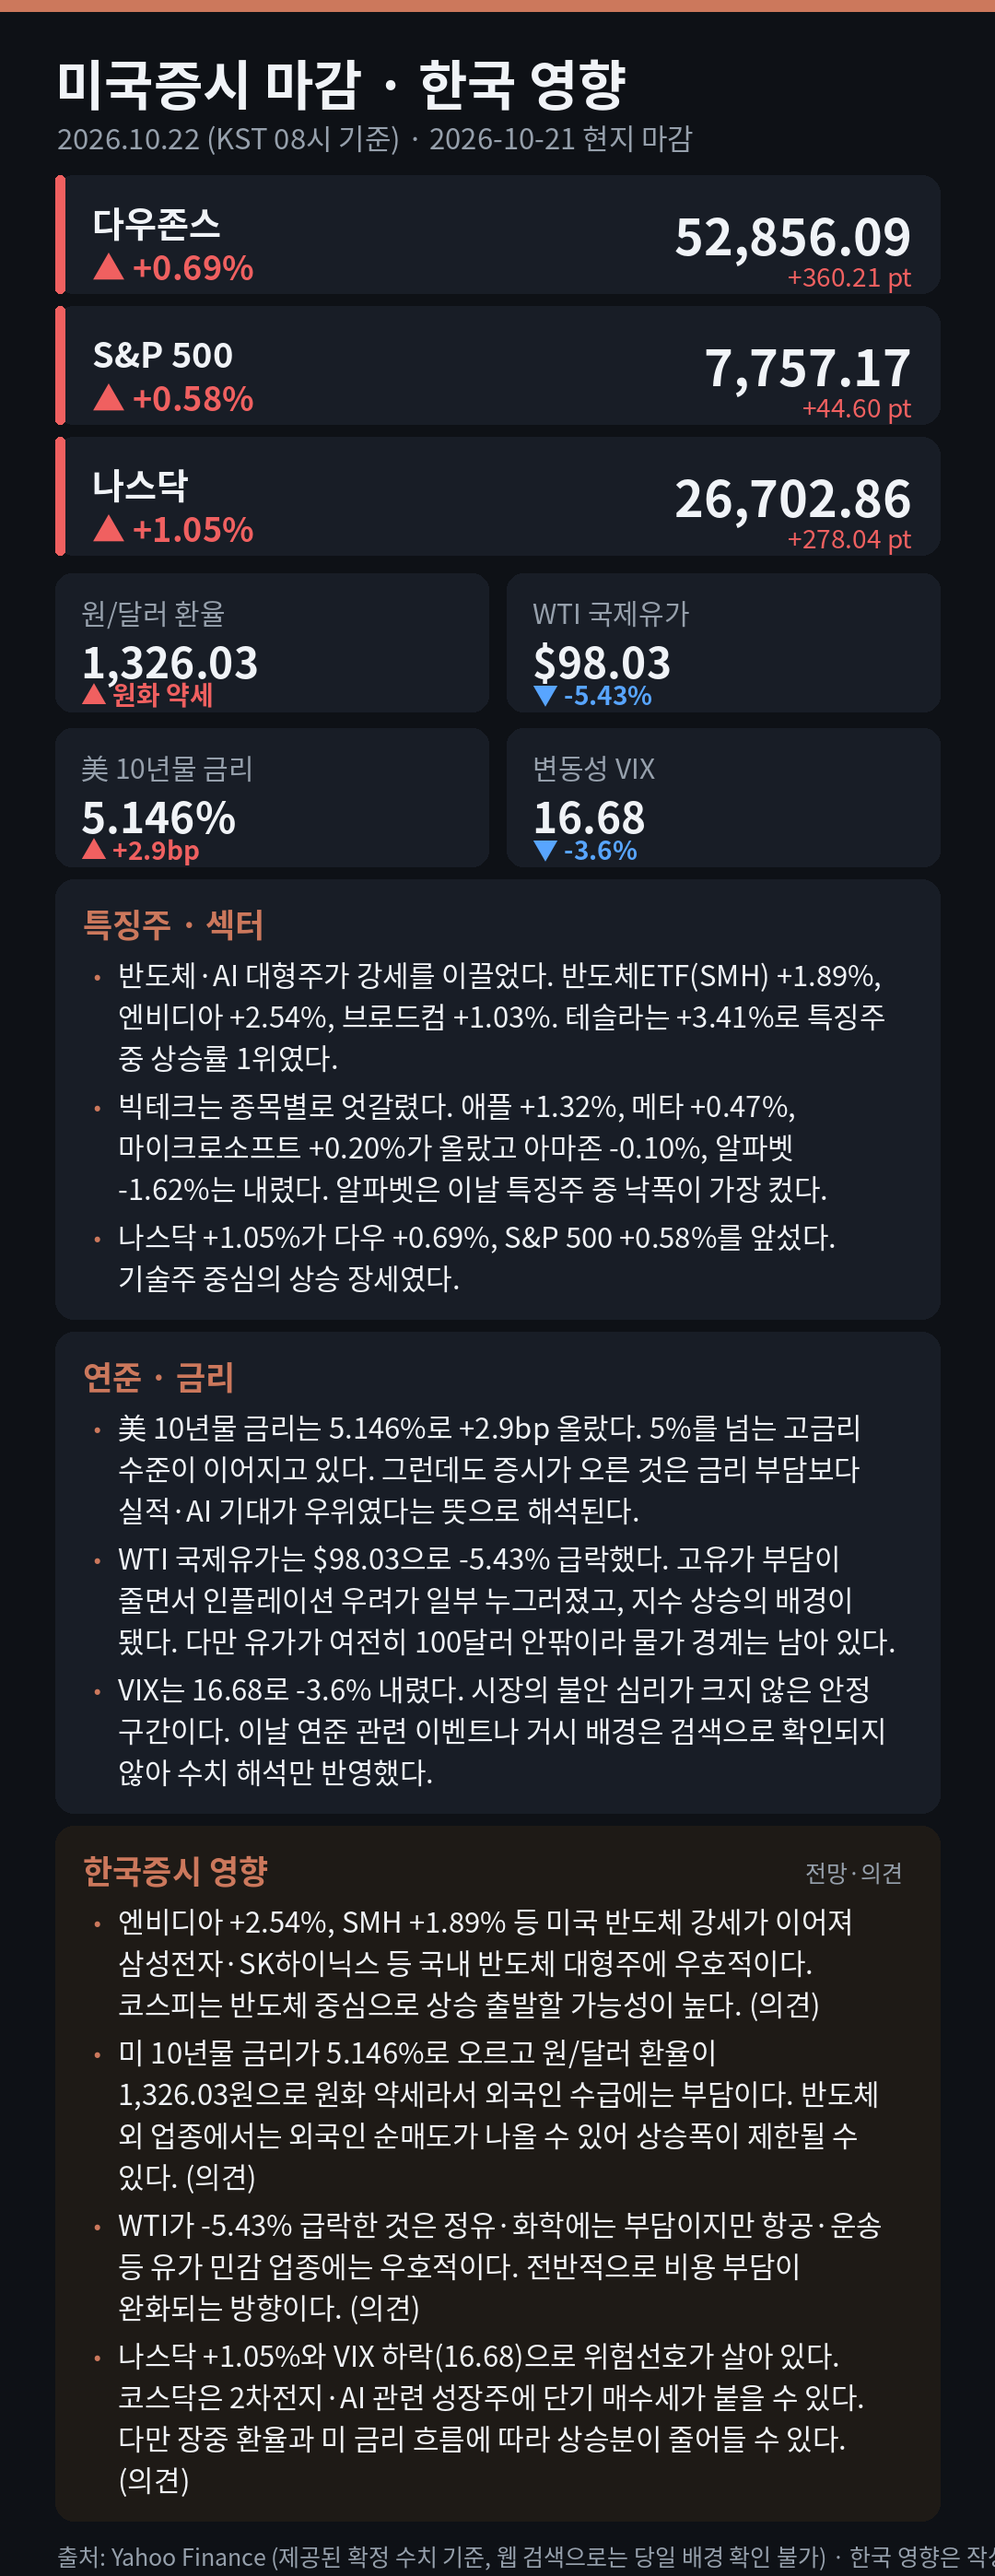
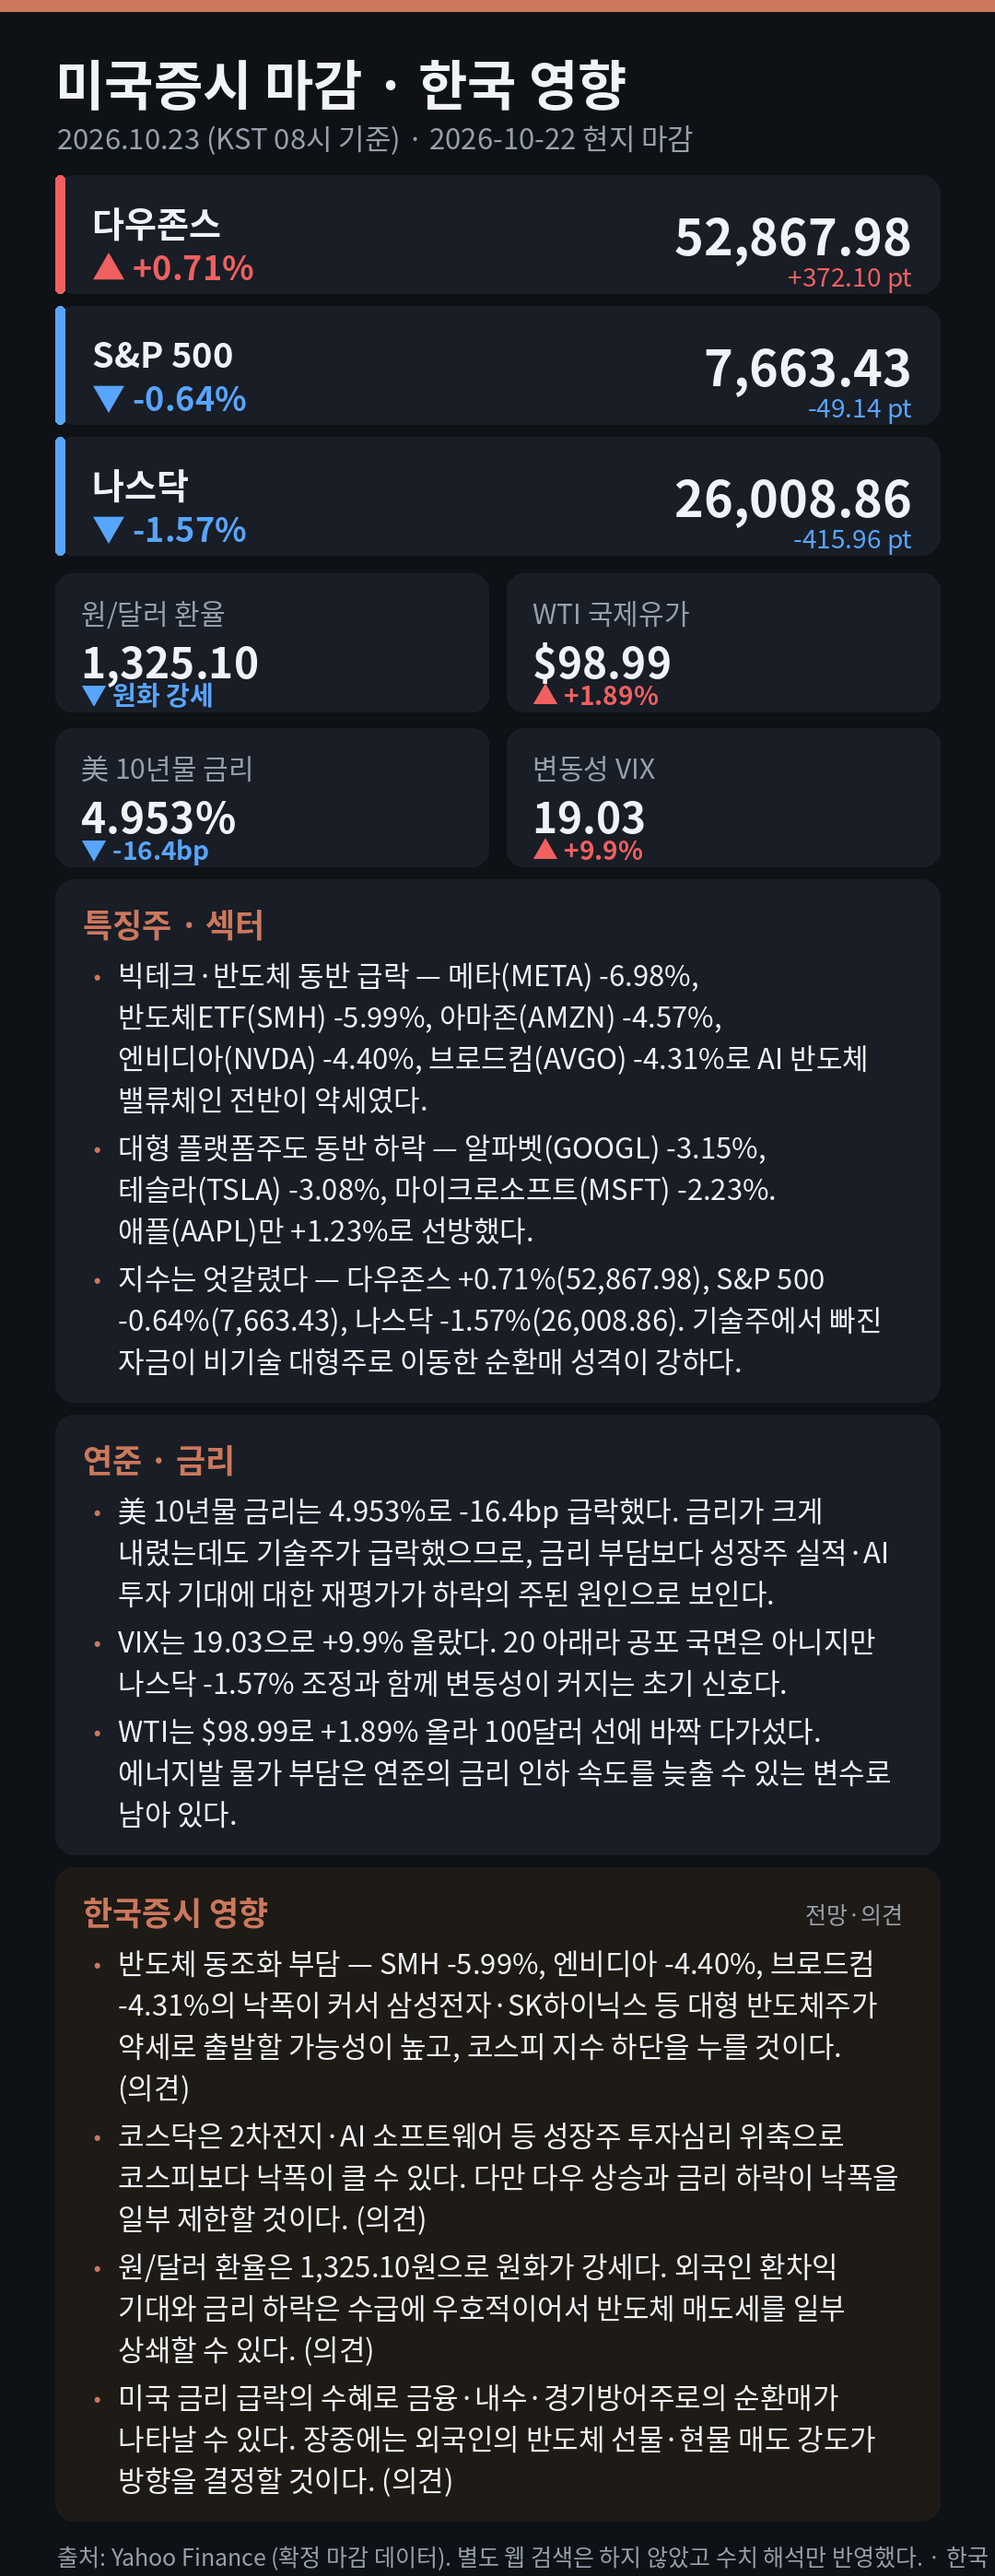
브리핑 2026-10-22 자동 발행

diff --git a/index.html b/index.html
@@ -14,8 +14,8 @@ a{color:#58a5ff;text-decoration:none} .s{color:#8a93a0;font-size:12px;float:righ
 </style></head><body><div class="wrap">
 <h1>미국증시 마감 브리핑</h1>
 <p class="sub">매일 아침(KST 08:02) 자동 업데이트 · 숫자는 Yahoo Finance 기준, 한국 영향은 전망</p>
-<img class="card" src="img/2026-10-21.png?v=2026-10-21" alt="2026-10-21 미국증시 마감"><p class="d">2026-10-21 현지 마감</p>
+<img class="card" src="img/2026-10-22.png?v=2026-10-22" alt="2026-10-22 미국증시 마감"><p class="d">2026-10-22 현지 마감</p>
 <h2>지난 브리핑</h2>
-<ul><li><a href="img/2026-10-21.png">2026-10-21</a> <span class="s">다우존스 +0.69% · S&P 500 +0.58% · 나스닥 +1.05%</span></li><li><a href="img/2026-10-20.png">2026-10-20</a> <span class="s">다우존스 +1.02% · S&P 500 +0.28% · 나스닥 -0.02%</span></li><li><a href="img/2026-10-19.png">2026-10-19</a> <span class="s">다우존스 -0.07% · S&P 500 +0.41% · 나스닥 +1.11%</span></li><li><a href="img/2026-10-16.png">2026-10-16</a> <span class="s">다우존스 -0.34% · S&P 500 -1.09% · 나스닥 -2.15%</span></li><li><a href="img/2026-10-15.png">2026-10-15</a> <span class="s">다우존스 +1.08% · S&P 500 +0.33% · 나스닥 +0.08%</span></li><li><a href="img/2026-10-14.png">2026-10-14</a> <span class="s">다우존스 -0.09% · S&P 500 -1.11% · 나스닥 -1.88%</span></li><li><a href="img/2026-10-13.png">2026-10-13</a> <span class="s">다우존스 -0.35% · S&P 500 -0.02% · 나스닥 -0.15%</span></li><li><a href="img/2026-10-12.png">2026-10-12</a> <span class="s">다우존스 +0.38% · S&P 500 -0.06% · 나스닥 -0.44%</span></li><li><a href="img/2026-10-09.png">2026-10-09</a> <span class="s">다우존스 +0.83% · S&P 500 +0.59% · 나스닥 +0.64%</span></li><li><a href="img/2026-10-08.png">2026-10-08</a> <span class="s">다우존스 +0.10% · S&P 500 -0.47% · 나스닥 -1.25%</span></li><li><a href="img/2026-10-07.png">2026-10-07</a> <span class="s">다우존스 -0.66% · S&P 500 -0.22% · 나스닥 -0.22%</span></li></ul>
+<ul><li><a href="img/2026-10-22.png">2026-10-22</a> <span class="s">다우존스 +0.71% · S&P 500 -0.64% · 나스닥 -1.57%</span></li><li><a href="img/2026-10-21.png">2026-10-21</a> <span class="s">다우존스 +0.69% · S&P 500 +0.58% · 나스닥 +1.05%</span></li><li><a href="img/2026-10-20.png">2026-10-20</a> <span class="s">다우존스 +1.02% · S&P 500 +0.28% · 나스닥 -0.02%</span></li><li><a href="img/2026-10-19.png">2026-10-19</a> <span class="s">다우존스 -0.07% · S&P 500 +0.41% · 나스닥 +1.11%</span></li><li><a href="img/2026-10-16.png">2026-10-16</a> <span class="s">다우존스 -0.34% · S&P 500 -1.09% · 나스닥 -2.15%</span></li><li><a href="img/2026-10-15.png">2026-10-15</a> <span class="s">다우존스 +1.08% · S&P 500 +0.33% · 나스닥 +0.08%</span></li><li><a href="img/2026-10-14.png">2026-10-14</a> <span class="s">다우존스 -0.09% · S&P 500 -1.11% · 나스닥 -1.88%</span></li><li><a href="img/2026-10-13.png">2026-10-13</a> <span class="s">다우존스 -0.35% · S&P 500 -0.02% · 나스닥 -0.15%</span></li><li><a href="img/2026-10-12.png">2026-10-12</a> <span class="s">다우존스 +0.38% · S&P 500 -0.06% · 나스닥 -0.44%</span></li><li><a href="img/2026-10-09.png">2026-10-09</a> <span class="s">다우존스 +0.83% · S&P 500 +0.59% · 나스닥 +0.64%</span></li><li><a href="img/2026-10-08.png">2026-10-08</a> <span class="s">다우존스 +0.10% · S&P 500 -0.47% · 나스닥 -1.25%</span></li></ul>
 <p class="foot">자동 생성 · Navis</p>
 </div></body></html>
